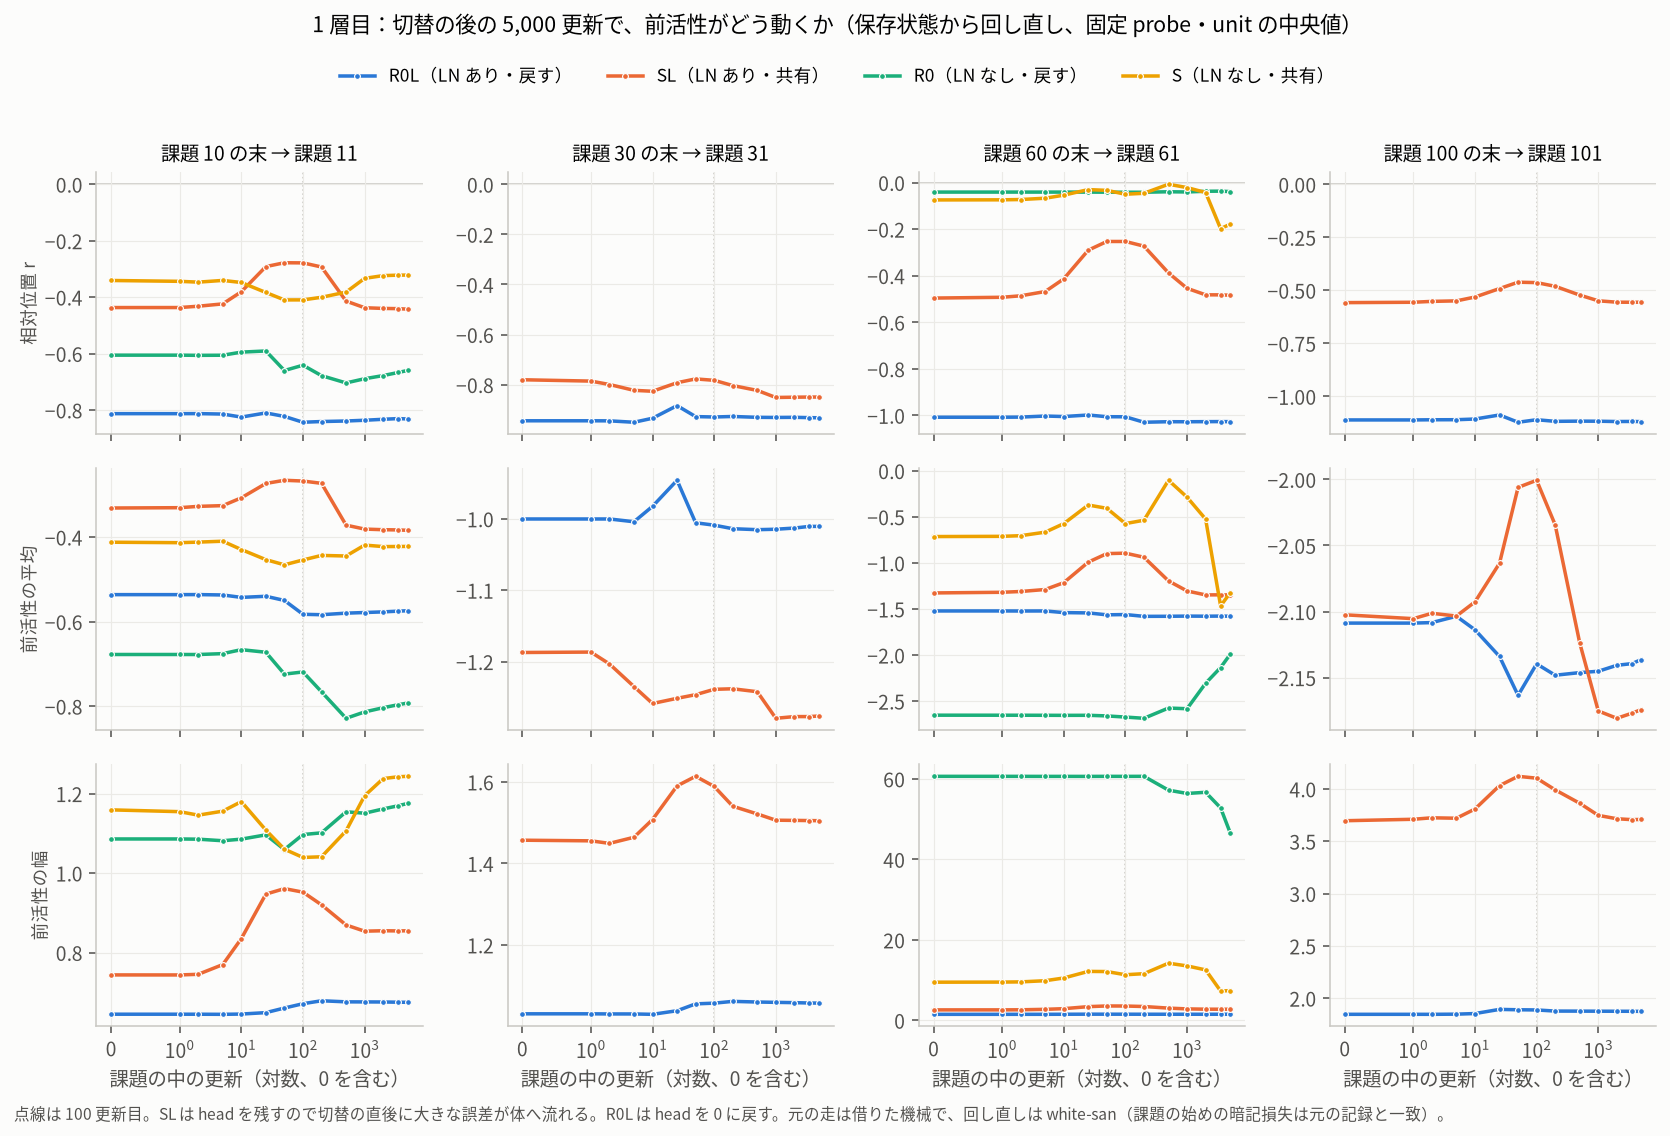
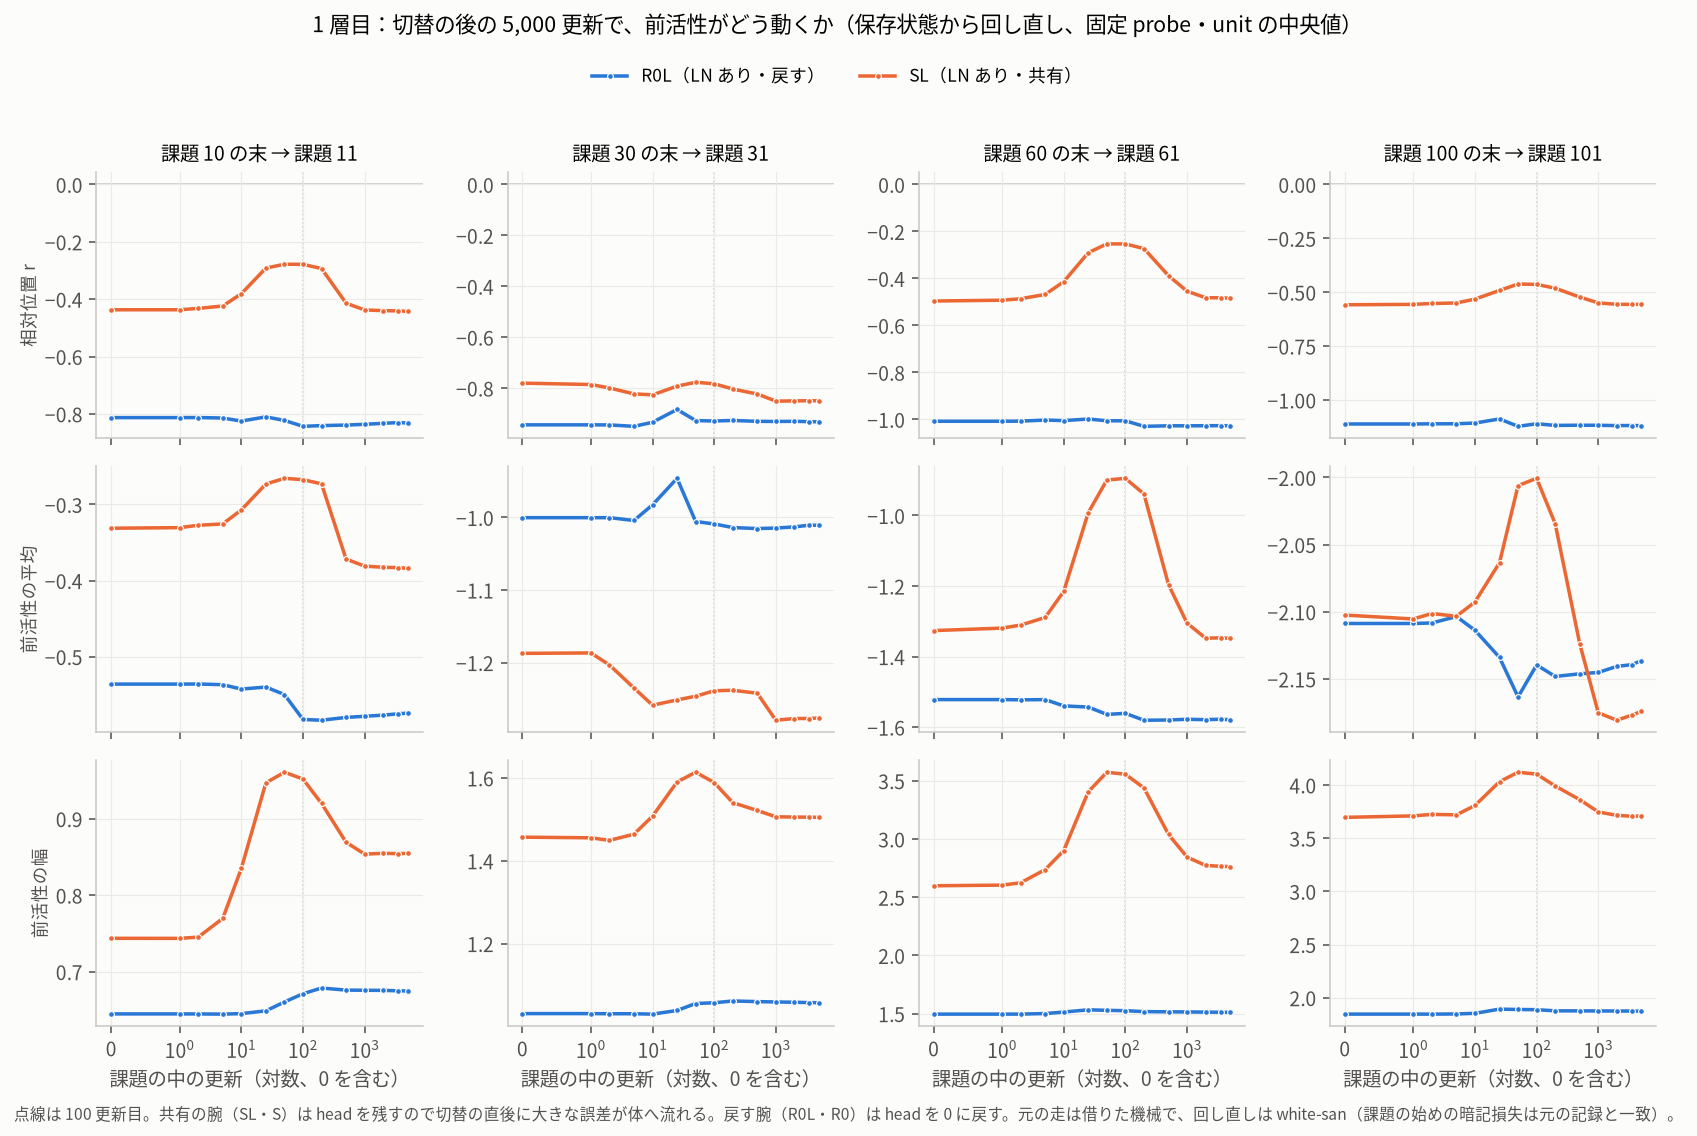
vit_long_1024: 回し直しの図を LN あり／なしで分ける（尺度が桁違いのため）

diff --git a/analysis/vit_long_1024/posthoc_2blk/switch_replay_plot.py b/analysis/vit_long_1024/posthoc_2blk/switch_replay_plot.py
@@ -13,13 +13,18 @@ import matplotlib.pyplot as plt
 plt.rcParams.update({'font.family': 'Noto Sans CJK JP', 'font.size': 10, 'axes.edgecolor': '#c9c8c3',
                      'axes.labelcolor': '#52514e', 'xtick.color': '#52514e', 'ytick.color': '#52514e',
                      'figure.facecolor': '#fcfcfb', 'axes.facecolor': '#fcfcfb'})
-ARMS = [('R0L', 'R0L（LN あり・戻す）', '#2a78d6'), ('SL', 'SL（LN あり・共有）', '#eb6834'),
-        ('R0', 'R0（LN なし・戻す）', '#1baf7a'), ('S', 'S（LN なし・共有）', '#eda100')]
+GROUPS = {'': [('R0L', 'R0L（LN あり・戻す）', '#2a78d6'), ('SL', 'SL（LN あり・共有）', '#eb6834')],
+          '_noLN': [('R0', 'R0（LN なし・戻す）', '#1baf7a'), ('S', 'S（LN なし・共有）', '#eda100')]}   # 尺度が桁違いなので図を分ける
 TS = (10, 30, 60, 100)
 METRICS = [('r_med', '相対位置 r'), ('mu_med', '前活性の平均'), ('sigma_med', '前活性の幅')]
 
 
 def main(src, out):
+    for suffix, ARMS in GROUPS.items():
+        figure(src, out, suffix, ARMS)
+
+
+def figure(src, out, suffix, ARMS):
     data = {(a, t): json.loads((src / f'{a}_T{t}.json').read_text()) for a, _, _ in ARMS for t in TS
             if (src / f'{a}_T{t}.json').exists()}
     for layer in (1, 2):
@@ -49,15 +54,15 @@ def main(src, out):
                 if i == len(METRICS) - 1:
                     ax.set_xlabel('課題の中の更新（対数、0 を含む）')
         h, l = axes[0][0].get_legend_handles_labels()
-        fig.legend(h, l, loc='upper center', ncol=4, frameon=False, fontsize=9, bbox_to_anchor=(0.5, 0.995))
+        fig.legend(h, l, loc='upper center', ncol=2, frameon=False, fontsize=9, bbox_to_anchor=(0.5, 0.995))
         fig.suptitle(f'{layer} 層目：切替の後の 5,000 更新で、前活性がどう動くか（保存状態から回し直し、固定 probe・unit の中央値）',
                      y=1.03, fontsize=11)
-        fig.text(0.01, -0.01, '点線は 100 更新目。SL は head を残すので切替の直後に大きな誤差が体へ流れる。R0L は head を 0 に戻す。'
+        fig.text(0.01, -0.01, '点線は 100 更新目。共有の腕（SL・S）は head を残すので切替の直後に大きな誤差が体へ流れる。戻す腕（R0L・R0）は head を 0 に戻す。'
                  '元の走は借りた機械で、回し直しは white-san（課題の始めの暗記損失は元の記録と一致）。', fontsize=8, color='#52514e')
         fig.tight_layout(rect=(0, 0, 1, 0.97))
-        fig.savefig(out / f'switch_replay_L{layer}.png', dpi=140, bbox_inches='tight')
+        fig.savefig(out / f'switch_replay_L{layer}{suffix}.png', dpi=140, bbox_inches='tight')
         plt.close(fig)
-        print(out / f'switch_replay_L{layer}.png')
+        print(out / f'switch_replay_L{layer}{suffix}.png')
 
 
 if __name__ == '__main__':
